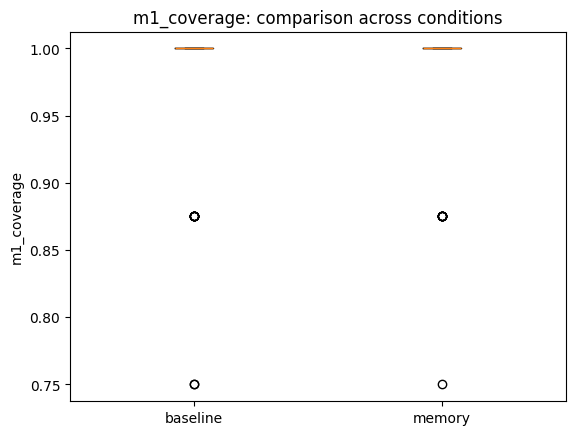
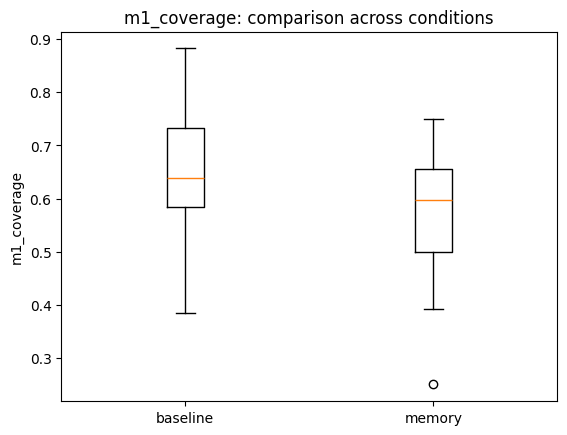
Added M2 unlearned actions usage

diff --git a/experiment.py b/experiment.py
@@ -24,8 +24,8 @@ from player import ScriptedPlayer
 from agent import BTGatedAgent
 
 
-def run_single_experiment(seed: int = 0, light_ticks: int = 100, dark_ticks: int = 100,
-cycles: int = 5, condition: str = 'memory') -> Dict[str, float]:
+def run_single_experiment(seed: int = 0, light_ticks: int = 10, dark_ticks: int = 10,
+cycles: int = 20, condition: str = 'memory') -> Dict[str, float]:
     env = GridEnv(seed=seed)
     player = ScriptedPlayer(rng_seed=seed + 13)
     agent = BTGatedAgent()
@@ -38,6 +38,9 @@ cycles: int = 5, condition: str = 'memory') -> Dict[str, float]:
     # Do liczenia latencji: kiedy akcję po raz pierwszy zobaczono i kiedy po raz pierwszy użył jej NPC
     first_seen_cycle: Dict[str, int] = {}
     first_used_cycle: Dict[str, int] = {}
+    
+    # Do liczenia użycia niewyuczonych podczas LIGHT[c] akcji w cyklu c+1
+    unlearned_rate_per_cycle: List[float] = []
     
     observed_light: Set[str] = set()
     light_history: deque[set[str]] = deque(maxlen=1)
@@ -111,6 +114,9 @@ cycles: int = 5, condition: str = 'memory') -> Dict[str, float]:
             used = {a for a in used_in_cycle if a in LEARNABLE}
             if ref:
                 coverage_per_cycle.append(len(used & ref) / len(ref))
+            if used:
+                unlearned_rate_c = len(used - ref) / len(used)
+                unlearned_rate_per_cycle.append(unlearned_rate_c)
             
             light_history.append(observed_light)  # dodanie observed_light z bieżącego LIGHT[c] do historii obserwacji
     
@@ -182,27 +188,32 @@ cycles: int = 5, condition: str = 'memory') -> Dict[str, float]:
             used = {a for a in used_in_cycle if a in LEARNABLE}
             if ref:
                 coverage_per_cycle.append(len(used & ref) / len(ref))
+            if used:
+                unlearned_rate_c = len(used - ref) / len(used)
+                unlearned_rate_per_cycle.append(unlearned_rate_c)
             
             light_history.append(observed_light)  # dodanie observed_light z bieżącego LIGHT[c] do historii obserwacji
     
     # ---------------- Agregacja metryk ----------------
     m1_coverage = sum(coverage_per_cycle) / len(coverage_per_cycle) if coverage_per_cycle else float('nan')
+    m2_unlearned_usage = (sum(unlearned_rate_per_cycle)) / len(unlearned_rate_per_cycle) if unlearned_rate_per_cycle else float('nan')
 
     # Latencja liczona tylko dla akcji, które kiedykolwiek zobaczono
     seen_f = set(first_seen_cycle)
     used_f = set(first_used_cycle)
     latencies = [first_used_cycle[a] - first_seen_cycle[a] for a in (seen_f & used_f)]
-    m2_latency = (sum(latencies) / len(latencies)) if latencies else float('nan')
-    m3_missed_rate = (len(seen_f - used_f) / len(seen_f)) if seen_f else float('nan')
+    m3_latency = (sum(latencies) / len(latencies)) if latencies else float('nan')
+    m4_missed_rate = (len(seen_f - used_f) / len(seen_f)) if seen_f else float('nan')
 
-    m4_cpu_ms = 1000.0 * (sum(cpu_times) / len(cpu_times)) if cpu_times else 0.0
+    m5_cpu_ms = 1000.0 * (sum(cpu_times) / len(cpu_times)) if cpu_times else 0.0
     difficulty = float(damage_to_player_total)
 
     return {
         'm1_coverage': m1_coverage,
-        'm2_latency_cycles': m2_latency,
-        'm3_missed_actions_rate': m3_missed_rate,
-        'm4_cpu_ms_per_tick': m4_cpu_ms,
+        'm2_unlearned_usage': m2_unlearned_usage,
+        'm3_latency_cycles': m3_latency,
+        'm4_missed_actions_rate': m4_missed_rate,
+        'm5_cpu_ms_per_tick': m5_cpu_ms,
         'difficulty_proxy': difficulty,
     }
 

diff --git a/run_experiment.py b/run_experiment.py
@@ -26,9 +26,9 @@ def parse_args() -> argparse.Namespace:
     p = argparse.ArgumentParser(description='Batch runner for ECHO-like experiment')
     p.add_argument('--outdir', type=str, default='data', help='Katalog wyjściowy na CSV/figury')
     p.add_argument('--seeds', type=str, default='0,1,2,3,4,5,6,7,8,9,10,11,12,13,14,15,16,17,18,19,20,21,22,23,24,25,26,27,28,29,30,31,32,33,34,35,36,37,38,39,40,41,42,43,44,45,46,47,48,49', help='Lista seedów rozdzielona przecinkami')
-    p.add_argument('--cycles', type=int, default=5, help='Liczba cykli LIGHT/DARK w epizodzie')
-    p.add_argument('--light_ticks', type=int, default=100, help='Długość fazy LIGHT (ticki)')
-    p.add_argument('--dark_ticks', type=int, default=100, help='Długość fazy DARK (ticki)')
+    p.add_argument('--cycles', type=int, default=20, help='Liczba cykli LIGHT/DARK w epizodzie')
+    p.add_argument('--light_ticks', type=int, default=10, help='Długość fazy LIGHT (ticki)')
+    p.add_argument('--dark_ticks', type=int, default=10, help='Długość fazy DARK (ticki)')
     p.add_argument('--conditions', type=str, default=','.join(DEFAULT_CONDITIONS), help='Warunki do uruchomienia: np. memory,baseline')
     return p.parse_args()
 
@@ -63,11 +63,12 @@ def main() -> None:
             return sum(vals)/len(vals) if vals else float('nan')
 
         m1 = avg('m1_coverage')
-        m2 = avg('m2_latency_cycles')
-        m3 = avg('m3_missed_actions_rate')
-        m4 = avg('m4_cpu_ms_per_tick')
+        m2 = avg('m2_unlearned_usage')
+        m3 = avg('m3_latency_cycles')
+        m4 = avg('m4_missed_actions_rate')
+        m5 = avg('m5_cpu_ms_per_tick')
         diff = avg('difficulty_proxy')
-        print(f'[{cond}] m1_coverage={m1:.3f}, m2_latency={m2:.3f} cycles, m3_miss_rate={m3:.3f} m4_cpu={m4:.4f} ms/tick, difficulty={diff:.1f}')
+        print(f'[{cond}] m1_coverage={m1:.3f}, m2_unlearned_usage={m2:3f}, m3_latency={m3:.3f} cycles, m4_miss_rate={m4:.3f} m5_cpu={m5:.4f} ms/tick, difficulty={diff:.1f}')
 
     # Dodatkowo wydrukuj „sample” pierwszego wiersza memory/baseline (gdy istnieją)
     for cond in ['memory', 'baseline']:

diff --git a/analysis_plot.py b/analysis_plot.py
@@ -27,7 +27,7 @@ def parse_args():
     ap.add_argument(
         '--metrics',
         type=str,
-        default='m1_coverage,m2_latency_cycles,m3_missed_actions_rate,m4_cpu_ms_per_tick,difficulty_proxy',
+        default='m1_coverage,m2_unlearned_usage,m3_latency_cycles,m4_missed_actions_rate,m5_cpu_ms_per_tick,difficulty_proxy',
         help='Lista metryk rozdzielona przecinkami',
     )
     return ap.parse_args()
